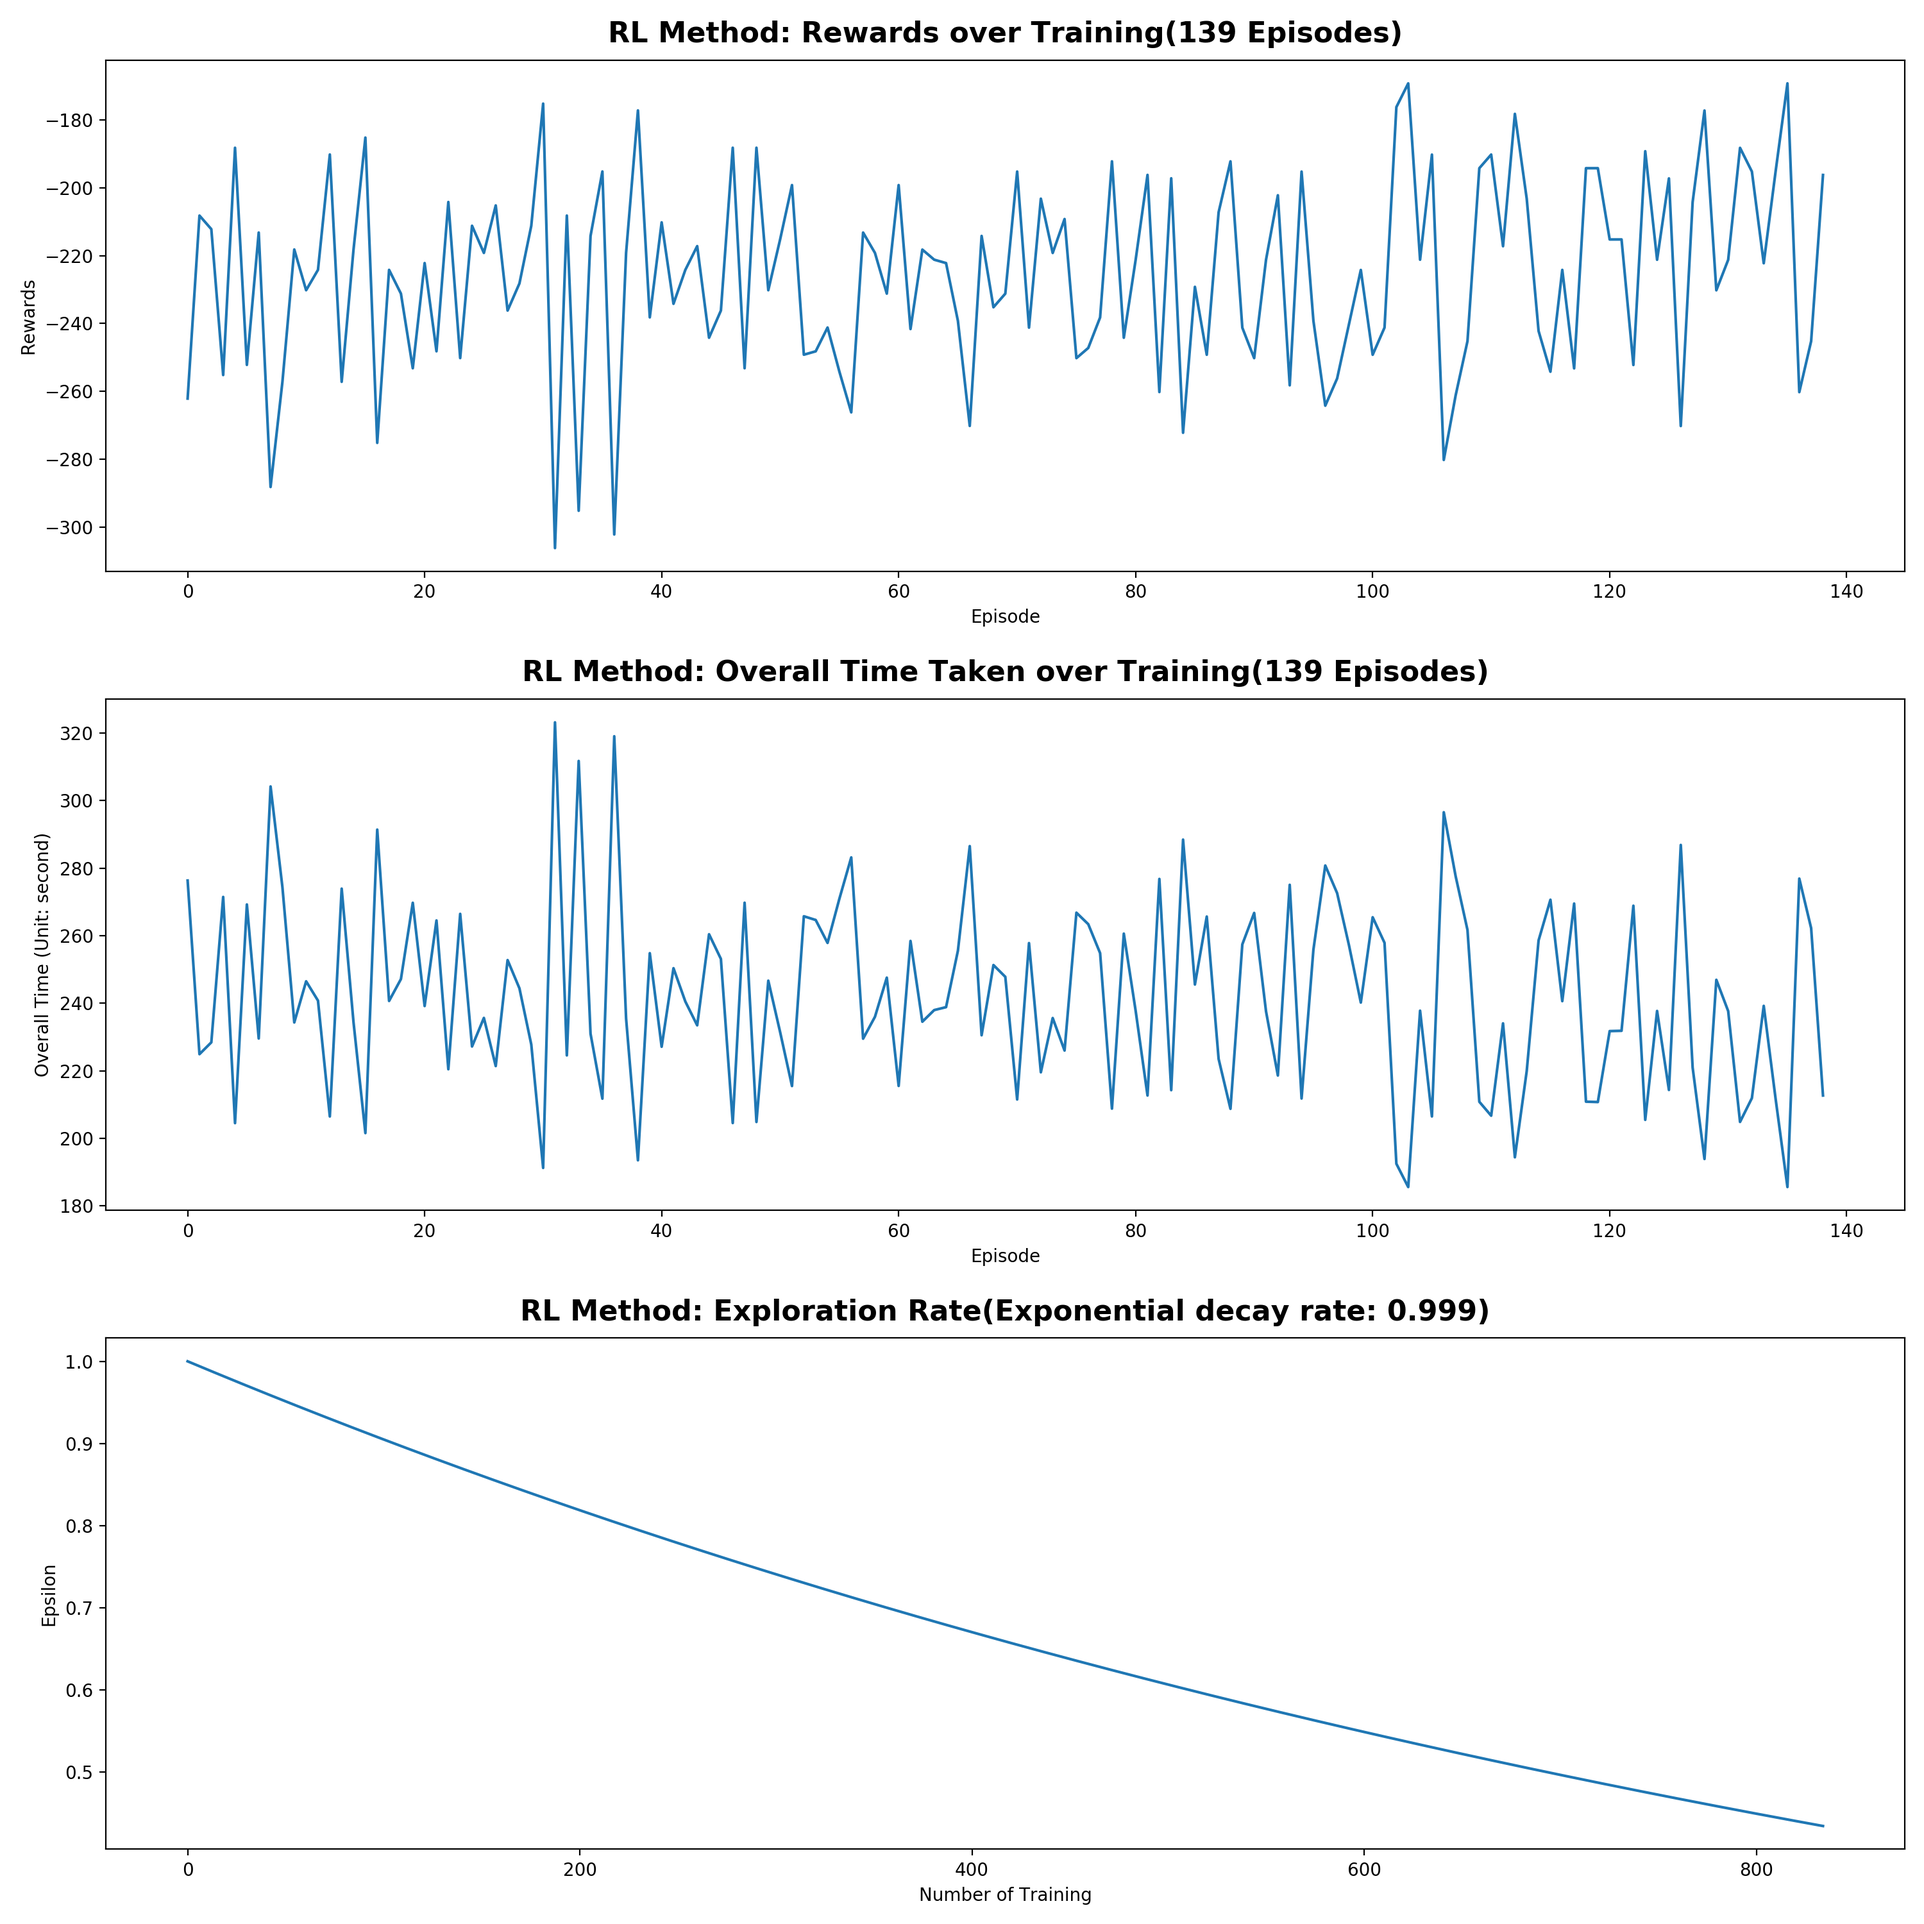
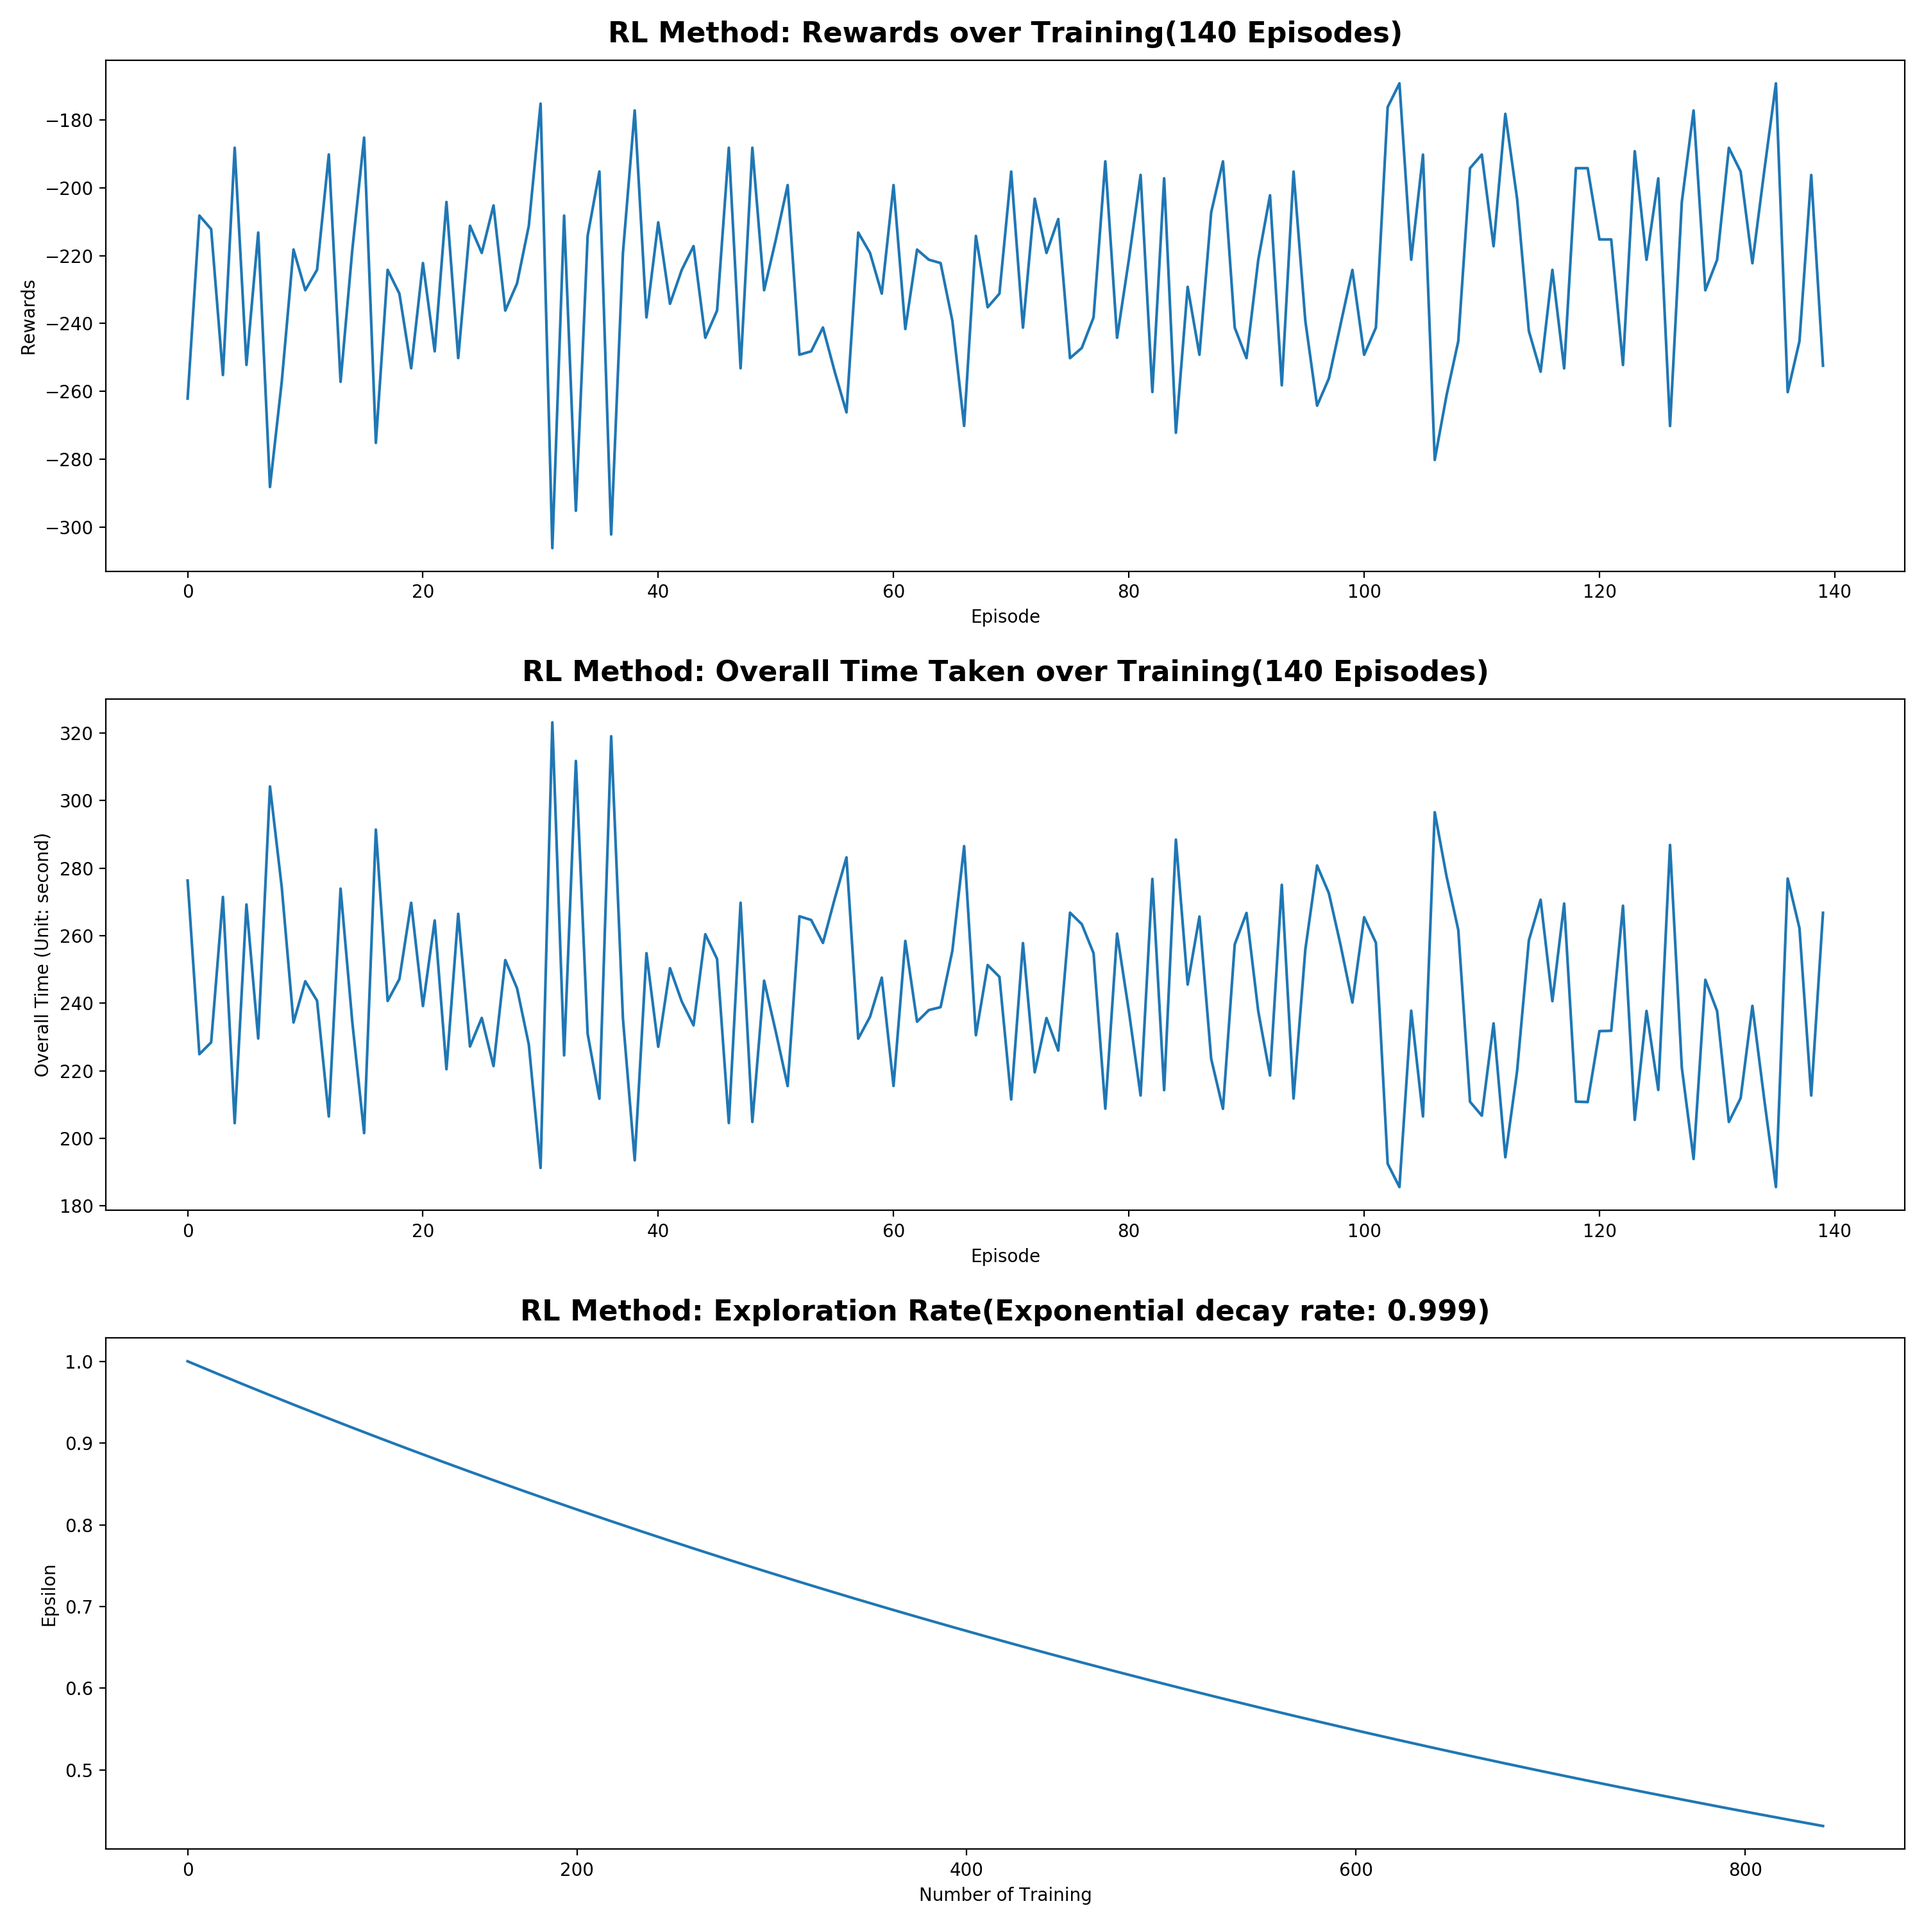
able to continue the training

Changed region(s): [[0.124, 0.372, 0.961, 0.62], [0.124, 0.031, 0.961, 0.279]]

diff --git a/src/mall_robo_gym/scripts/mir100_rl_1.py b/src/mall_robo_gym/scripts/mir100_rl_1.py
@@ -396,17 +396,6 @@ class DynamicObstacleNavigationMir100Sim:
         self._get_robot_position()
 
         # Update the elapsed time for reaching each waypoint
-        """
-        for i in range(self.num_waypoints):
-            if self.waypoints_status[i] == 0:
-                time = rospy.get_rostime()
-                time_s = time.to_sec()
-                wp_time = time_s - self.waypoint_time_start
-                self.waypoints_time[i] = round(wp_time, 2)
-                rospy.loginfo(f"[{self._name}] waypoints_time[{i}] = {self.waypoints_time[i]}, done!")
-        rospy.loginfo(f"[{self._name}] updates waypoints_time, done!")
-        rospy.loginfo(f"[{self._name}] waypoints_time taken: {self.waypoints_time}")
-        """
         if self.waypoints_status[action] == 0:
             time = rospy.get_rostime()
             time_s = time.to_sec()
@@ -646,18 +635,56 @@ class DeliveryQAgent(QAgent):
 
 
 
-def run_num_episodes(env,agent,num_episodes=100):
-    # Store the rewards
-    rewards = []
-    overall_times = []
-    
+def run_num_episodes(env, agent, num_episodes=100, external_data=False):
+
     results_path = BASE_PATH.parent.parent.parent / 'Results_Plot'
     if not results_path.exists():
         results_path.mkdir()
 
-    for i in range(num_episodes):
+    rewards = []
+    overall_times = []
+    rest_num_episode = num_episodes
+    
+    # Store the rewards by empty list of input from externally
+    if external_data:
+        # Read rewards
+        rewards = []
+        with open(results_path / "RL_rewards.txt") as f:
+            for r in f.readlines():
+                rewards.append(float(r))
+        
+        # Read overall_times
+        overall_times = []
+        with open(results_path / "RL_overall_times.txt") as f:
+            for t in f.readlines():
+                overall_times.append(float(t))
+
+        # Read exploration rate
+        exp_rate = []
+        with open(results_path / "RL_exploration_rate.txt") as f:
+            for e in f.readlines():
+                exp_rate.append(float(e))
+
+        agent.epsilon = exp_rate[-1]    # Use the last element of exploration_rate list as the initial epsilon value
+        agent.exploration_rate = exp_rate
+
+        # Read the Q table
+        initial_q_table = np.load(results_path / "RL_Qtable.npy")
+        agent.Q = initial_q_table
+
+        cur_num_episode = len(rewards)
+        rest_num_episode = num_episodes - cur_num_episode
+
+    
+    for i in range(rest_num_episode):
+
+        if external_data:
+            cur_i = i + cur_num_episode
+        else:
+            cur_i = i
+
         # Run the episode
-        rospy.loginfo(f"[mir100_rl_1] episode <{i}>! (total number of episode: {num_episodes})")
+        rospy.loginfo(f"[mir100_rl_1] episode <{cur_i}>! (total number of episode: {num_episodes})")
         env,agent,episode_reward = run_episode(env,agent)
 
         # Update the "overall_times"
@@ -676,19 +703,21 @@ def run_num_episodes(env,agent,num_episodes=100):
         np.savetxt(results_path / "RL_exploration_rate.txt", np.array(agent.exploration_rate), fmt='%f',delimiter=',')
         rospy.loginfo(f"[mir100_rl_1] successfully writes the exploration_rate to {results_path}!")
 
+        longest_t = max(overall_times)
         shortest_t = min(overall_times)
         index_shortest_t = overall_times.index(shortest_t)
         episode_shortest_t = index_shortest_t + 1
         shortest_t_reward = rewards[index_shortest_t]
         rospy.loginfo(f"The minimum time for the [mir100_rl_1] to complete the task is {shortest_t} seconds in episode <{episode_shortest_t}> with reward ({shortest_t_reward})!")
+        rospy.loginfo(f"The maximum time for the [mir100_rl_1] to complete the task is {longest_t} seconds!")
 
         # Show rewards, overall time, and exploration rate(epsilon)
         fig1, ax1 = plt.subplots(3, 1, figsize=(15,15))
         ax1[0].plot(rewards)
         ax1[1].plot(overall_times)
         ax1[2].plot(agent.exploration_rate)
-        ax1[0].set_title(f"RL Method: Rewards over Training({i+1} Episodes)", fontsize=16, fontweight= 'bold', pad=10)
-        ax1[1].set_title(f"RL Method: Overall Time Taken over Training({i+1} Episodes)", fontsize=16, fontweight= 'bold', pad=10)
+        ax1[0].set_title(f"RL Method: Rewards over Training({cur_i+1} Episodes)", fontsize=16, fontweight= 'bold', pad=10)
+        ax1[1].set_title(f"RL Method: Overall Time Taken over Training({cur_i+1} Episodes)", fontsize=16, fontweight= 'bold', pad=10)
         ax1[2].set_title(f"RL Method: Exploration Rate(Exponential decay rate: {agent.epsilon_decay})", fontsize=16, fontweight= 'bold', pad=10)
         ax1[0].set_xlabel("Episode")
         ax1[0].set_ylabel("Rewards")
@@ -719,7 +748,7 @@ def run_num_episodes(env,agent,num_episodes=100):
                 loc="center",
                 cellLoc="center",
                 rowLoc="center")
-        ax2.set_title(f"Q Table ({i} Episodes)", fontsize=16, fontweight= 'bold', pad=10)
+        ax2.set_title(f"Q Table ({cur_i+1} Episodes)", fontsize=16, fontweight= 'bold', pad=10)
         np.save(results_path / "RL_Qtable.npy", data)
         plt.savefig(results_path / 'RL_Q_table.png', dpi = 200)
         # plt.show()
@@ -759,7 +788,7 @@ if __name__ == u'__main__':
     agent = DeliveryQAgent(env.state_space,env.action_space,epsilon = 1.0,epsilon_min = 0.01,epsilon_decay = 0.999,gamma = 0.95,lr = 0.8)
 
     num_episodes = 800
-    run_num_episodes(env,agent,num_episodes)
+    run_num_episodes(env,agent,num_episodes,external_data=True)
 
     pause_physics_client = rospy.ServiceProxy('/gazebo/pause_physics', Empty)
     pause_physics_client(EmptyRequest())

diff --git a/src/mall_robo_gym/scripts/mir100_greedy_1.py b/src/mall_robo_gym/scripts/mir100_greedy_1.py
@@ -1,7 +1,6 @@
 #!/usr/bin/env python3
 # -*- coding: utf-8 -*-
 
-from audioop import avg
 import os
 import math
 import time
